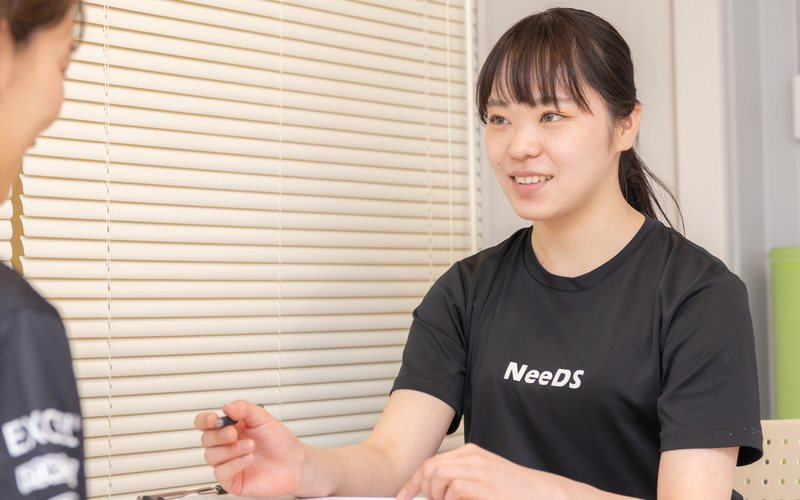
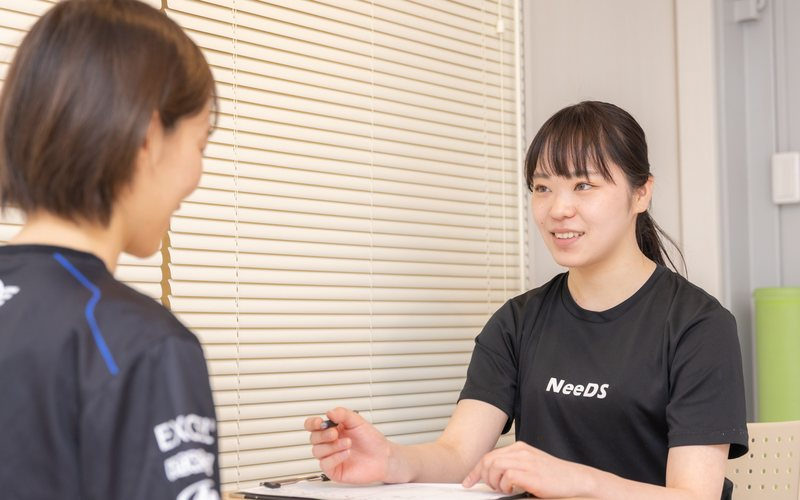
「初めての方こそ安心して」まわりの写真を調整、最終CTAも実写に
- トレーナー3名：成清・塩崎の写真を、中務さんのバストアップと
  同じ大きさに顔が写るようトリミングし直し
- 中務さんの「まず身体の状態を見る」のコメントを削除
- 「安心してください」の丸枠：顔が円の中心に来る専用トリミングを新規作成
- 最終CTAのプレースホルダーを、トレーナーに相談している実写に差し替え
  （images/ph/ を削除。これでプレースホルダーはゼロ）
- 無料体験3カード：01・02はトレーナーの頭が切れないよう引いた画角に、
  03は引き気味にして2人が話している画角に変更

既存CSSブロックはバイト単位で同一を維持。

Claude-Session: https://claude.ai/code/session_01Re5nFwUBRuEXj6DTQGbL92

diff --git a/women-v2/index.html b/women-v2/index.html
@@ -1041,8 +1041,8 @@ height="0" width="0" style="display:none;visibility:hidden"></iframe></noscript>
       <div class="qbox">
         <div class="figs">
           <span class="bubble">安心してください</span>
-          <img src="images/t02.jpg" alt="お客様と話すプライベートジムNeeDSの女性トレーナー" width="600" height="600" loading="lazy" decoding="async">
-          <img src="images/t03.jpg" alt="お客様と話すプライベートジムNeeDSのトレーナー" width="600" height="600" loading="lazy" decoding="async">
+          <img src="images/成清トレーナー丸.jpg" alt="お客様と話すプライベートジムNeeDSの女性トレーナー" width="400" height="400" loading="lazy" decoding="async">
+          <img src="images/塩崎トレーナー丸.jpg" alt="お客様と話すプライベートジムNeeDSの女性トレーナー" width="400" height="400" loading="lazy" decoding="async">
         </div>
         <blockquote class="txt">
           <span class="nw">通われている方の大半は、</span><span class="nw">運動の習慣がないまま</span><span class="nw">40代・50代・60代を</span><span class="nw">迎えられた一般の方です。</span><br>
@@ -1070,7 +1070,7 @@ height="0" width="0" style="display:none;visibility:hidden"></iframe></noscript>
 
       <div class="trow">
         <article>
-          <img src="images/身体のチェック.jpg" alt="トレーナーが姿勢と身体の動きをチェックしている様子" width="800" height="500" style="object-position:57% 50%;" loading="lazy" decoding="async">
+          <img src="images/身体のチェック.jpg" alt="トレーナーが姿勢と身体の動きをチェックしている様子" width="800" height="500" style="object-position:55% 50%;" loading="lazy" decoding="async">
           <div class="in">
             <span class="no">01</span>
             <h3><span class="nw">身体の状態を</span><span class="nw">チェック</span></h3>
@@ -1078,7 +1078,7 @@ height="0" width="0" style="display:none;visibility:hidden"></iframe></noscript>
           </div>
         </article>
         <article>
-          <img src="images/あなたに合ったトレーニング.jpg" alt="トレーナーの補助を受けながらトレーニングを体験している様子" width="800" height="500" style="object-position:49% 50%;" loading="lazy" decoding="async">
+          <img src="images/あなたに合ったトレーニング.jpg" alt="トレーナーの補助を受けながらトレーニングを体験している様子" width="800" height="500" style="object-position:46% 50%;" loading="lazy" decoding="async">
           <div class="in">
             <span class="no">02</span>
             <h3><span class="nw">あなたに合った</span><span class="nw">トレーニングを体験</span></h3>
@@ -1086,7 +1086,7 @@ height="0" width="0" style="display:none;visibility:hidden"></iframe></noscript>
           </div>
         </article>
         <article>
-          <img src="images/あなた専用プラン.jpg" alt="これからの身体づくりについてトレーナーと相談している様子" width="800" height="500" style="object-position:71% 50%;" loading="lazy" decoding="async">
+          <img src="images/あなた専用プラン.jpg" alt="これからの身体づくりについてトレーナーと相談している様子" width="800" height="500" style="object-position:78% 50%;" loading="lazy" decoding="async">
           <div class="in">
             <span class="no">03</span>
             <h3><span class="nw">あなた専用プランを</span><span class="nw">ご提案</span></h3>
@@ -1179,7 +1179,6 @@ height="0" width="0" style="display:none;visibility:hidden"></iframe></noscript>
           <div class="staff-body">
             <h3 class="staff-name"><span class="nw">中務 正幸</span></h3>
             <p class="staff-role">ジムオーナー</p>
-            <p class="staff-cmt"><span class="nw">「まず身体の</span><span class="nw">状態を見る」</span></p>
           </div>
         </article>
         <article>
@@ -1249,7 +1248,7 @@ height="0" width="0" style="display:none;visibility:hidden"></iframe></noscript>
   <div class="wrap">
     <div class="panel sand rv">
       <div class="fc-grid">
-        <img class="fc-ph" src="images/ph/ph-last.svg" alt="笑顔でトレーニングする女性の写真（差し替え待ち）" width="400" height="500" loading="lazy" decoding="async">
+        <img class="fc-ph" src="images/プロに相談.jpg" alt="トレーナーに身体のことを相談しているお客様" width="640" height="800" style="object-position:50% 10%;" loading="lazy" decoding="async">
         <div>
           <p class="fc-ttl">
             <span class="nw">まずは一度、</span><em><span class="nw">プロに相談してみよう</span></em>

diff --git a/women-v2/README.md b/women-v2/README.md
@@ -9,7 +9,6 @@
 |---|---|
 | `index.html` | LP本体。CSS・JSを内包した単体HTML。外部依存はGoogle FontsとGTMのみ |
 | `images/` | 写真・ロゴ。`women40/images/` から流用 |
-| `images/ph/` | 差し替え待ちのプレースホルダー画像（SVG・12点） |
 
 ## デザインについて
 
@@ -164,10 +163,9 @@ CTAは **ヒーロー ／ 無料体験 ／ 料金 ／ 最終CTA ／ フッター
 | `hero.jpg` | ヒーロー |
 | `p04.jpg` | Studio（完全個室の店内） |
 | `p08.jpg` / `p09.jpg` | Access（六甲道店／六甲風の郷店 外観） |
-| `t02.jpg` / `t03.jpg` | Beginner の吹き出し囲み（2人が会話しているイメージ） |
 | `logo.png` | ヘッダー／フッター／favicon |
 
-`p01.jpg` / `p02.jpg` / `p03.jpg` / `t01.jpg` は差し替え済みのため、現在は未使用です。
+`p01`〜`p03` / `t01`〜`t03` は差し替え済みのため、現在は未使用です。
 
 ### 実写（お客様ご支給・Google ドライブ）
 
@@ -181,34 +179,30 @@ CTAは **ヒーロー ／ 無料体験 ／ 料金 ／ 最終CTA ／ フッター
 | `ジムオーナー.jpg` | トレーナー左：中務 正幸 | 1:1・顔が中央 |
 | `成清トレーナー.jpg` | トレーナー中央：成清 愛 | 1:1・顔が中央 |
 | `塩崎トレーナー.jpg` | トレーナー右：塩崎 優子 | 1:1・顔が中央 |
-| `身体のチェック.jpg` | 無料体験 01 | 16:10・`object-position:57%` |
-| `あなたに合ったトレーニング.jpg` | 無料体験 02 | 16:10・`object-position:49%` |
-| `あなた専用プラン.jpg` | 無料体験 03 | 16:10・`object-position:71%` |
+| `成清トレーナー丸.jpg` | Beginner の吹き出し囲み（左） | 1:1・顔が円の中心 |
+| `塩崎トレーナー丸.jpg` | Beginner の吹き出し囲み（右） | 1:1・顔が円の中心 |
+| `身体のチェック.jpg` | 無料体験 01 | 16:10・`object-position:55%` |
+| `あなたに合ったトレーニング.jpg` | 無料体験 02 | 16:10・`object-position:46%` |
+| `あなた専用プラン.jpg` | 無料体験 03 | 16:10・`object-position:78%` |
+| `プロに相談.jpg` | 最終CTA | 4:5・`object-position:50% 10%` |
 
-スマホでは `.trow` の写真が幅100pxの縦長に切り抜かれるため、
-被写体（トレーナー）が中央に来るよう `object-position` を1枚ずつ指定しています。
+トレーナー3名は、中務さんのバストアップの大きさに顔の写り方をそろえてあります。
+吹き出し囲みは円形（`border-radius:50%`）なので、顔が円の中心に来る専用トリミングを別に用意しています。
 
-### プレースホルダー（`images/ph/` ・すべて差し替え待ち）
+`.trow`（無料体験3カード）はスマホでは幅100pxの縦長に、
+`.fc-ph`（最終CTA）はスマホでは 5:2 の横帯に切り抜かれるため、
+顔が切れないよう `object-position` を1枚ずつ指定しています。
 
-参考LPと同じ密度で写真を使うため、未撮影の枠をブランド配色のSVGで仮置きしています。
-生成りのグラデーション＋線画アイコン＋`PHOTO` の表記で、
-**実写に差し替えるまでの仮の絵**であることが一目で分かるようにしてあります。
+### プレースホルダー
 
-| ファイル | 差し替える写真 |
-|---|---|
-| `ph-last.svg` | 笑顔でトレーニングする女性（最終CTA・4:5） |
-
-**残るプレースホルダーは `ph-last.svg` の1点だけです。**
-
-差し替えは `src` を実写のパスに変えるだけです（`object-fit:cover` で自動的に切り抜かれます）。
-`alt` は日本語で内容を記述しているので、あわせて更新してください。
+**プレースホルダーはすべて実写に差し替え済みです（`images/ph/` ディレクトリは削除）。**
 
 ### そのほかの差し替え待ち
 
-- **成清トレーナー・塩崎トレーナーのコメント**。
+- **トレーナー3名のコメント**。
   仮置きしていた作り話のコメントは、実在のお名前を出す以上そのままには
-  できないため削除しました。ご本人のことばをいただければ入れられます。
-  中務さんのコメントは既存LPからの引用のため、そのまま残しています。
+  できないため削除しました。中務さんのコメントもご指示により削除しています。
+  ご本人のことばをいただければ入れられます。
 - **写真の使用許諾**。ドクター・アスリート・モデル・経営者・トレーナーの各写真は
   いずれも個人が特定できる実写です。掲載許可（アスリートの写真は撮影者・所属先の
   使用許諾も）が取れているかご確認ください。
